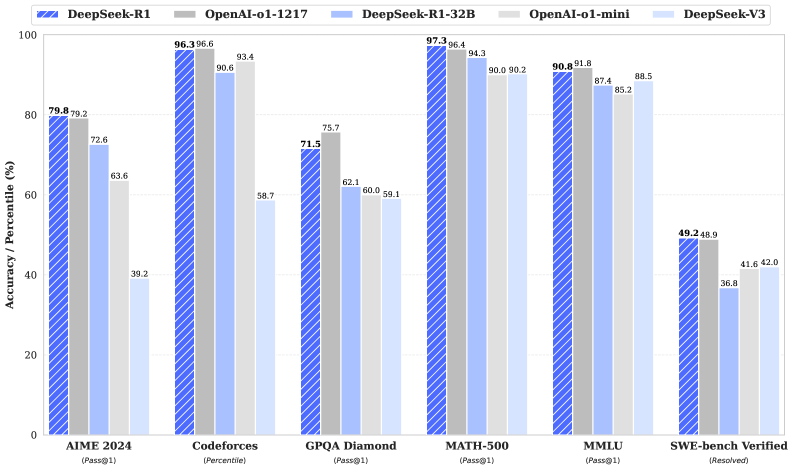
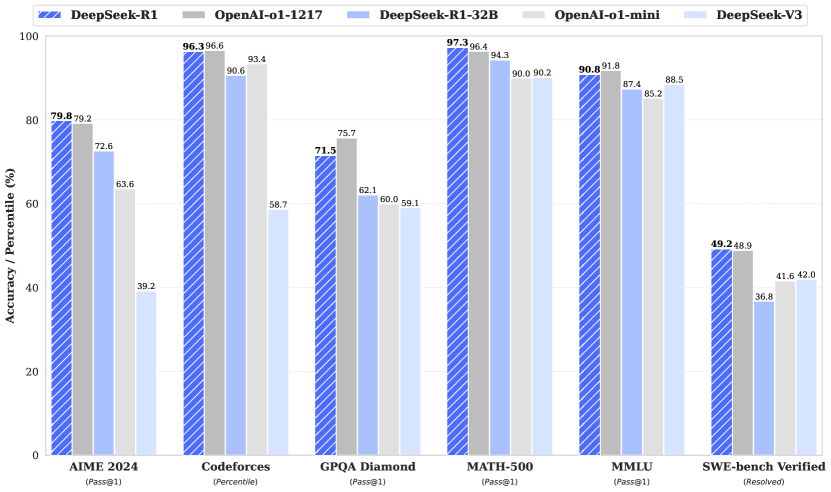
feat: DeepSeek-R1 (DeepSeek-AI, 2025) 深度解读 - 纯 RL 涌现推理

diff --git a/_posts/2026-04-24-DeepSeek-R1-RL推理模型深度解读.md b/_posts/2026-04-24-DeepSeek-R1-RL推理模型深度解读.md
@@ -1,0 +1,199 @@
+---
+title: "DeepSeek-R1 — 用纯 RL 让模型自发涌现长思维链,开源复现 o1"
+date: 2026-04-24 17:30:00 +0800
+categories: [Agent, Reasoning, Reinforcement Learning]
+tags: [deepseek-r1, grpo, reasoning-model, rl, deepseek-2025]
+math: true
+---
+
+## 基本信息
+
+- **作者**: DeepSeek-AI 团队
+- **机构**: DeepSeek
+- **发表**: arXiv 2025-01
+- **arXiv**: [2501.12948](https://arxiv.org/abs/2501.12948)
+
+## 一句话总结
+
+**DeepSeek-R1** 是 2025 年 1 月震动整个 AI 行业的论文——首个**在开源模型上完整复现 OpenAI o1** 的工作,并给出所有技术细节。核心贡献三点:(1) **R1-Zero**:在 DeepSeek-V3-Base 上**纯用 GRPO RL(完全不做 SFT)训练**,模型自发涌现长思维链、自我反思、验证、回溯等行为;(2) **R1**:在 R1-Zero 基础上做 cold-start SFT + 多阶段 RL,进一步提升可读性;(3) **Distillation**:把 R1 的推理能力蒸馏到 1.5B-70B 的开源小模型,让 Qwen-7B 这种小模型在 AIME 上超过 GPT-4o。R1 发布后一周内引发全球复现浪潮,让"推理模型"从 OpenAI 专属变为开源社区公用技术。
+
+![DeepSeek-R1 的训练 pipeline:R1-Zero 走纯 RL 路线,展示涌现能力;R1 多阶段训练(cold-start SFT → RL for reasoning → SFT on rejection sampling → RL for all scenarios),产出面向用户的最终模型。](/assets/img/deepseek-r1/x1.png)
+_Figure 1:R1 的完整训练 pipeline_
+
+---
+
+## 背景:o1 的谜与开源复现之难
+
+### 2024 年 9 月:o1 震动业界
+
+OpenAI 发布 **o1**:在推理任务(AIME、Codeforces、PhD-level science)上大幅超越 GPT-4o。特点:
+
+- 回答前先写一大段内部思考
+- 测试时越"想"越久越准(**inference-time scaling**)
+- 自发展现反思("wait, let me reconsider")、验证、回溯
+
+但 OpenAI 几乎没公开任何训练细节——只提到"用了 RL"。业界疯狂猜测:
+
+- 是 MCTS + PRM 吗?
+- 还是 RLHF 变体?
+- 数据怎么造的?
+
+### 2024 年 9-12 月:复现尝试皆不理想
+
+- 社区尝试 Self-Taught Reasoner (STaR) 路线 —— 效果差
+- PRM + MCTS —— 复杂且不稳
+- 各种 distillation —— 能力浅层,缺涌现
+
+直到 R1 发布,业界才看到一个**work 的 recipe**。
+
+---
+
+## 核心机制一:R1-Zero 的纯 RL 范式
+
+### 算法:GRPO + rule-based reward
+
+DeepSeek 的做法惊人地简单:
+
+- **Base model**:DeepSeek-V3-Base(671B MoE,未经任何 SFT)
+- **RL 算法**:GRPO(见 [GRPO 深度解读]({% post_url 2026-04-24-DeepSeekMath-GRPO-深度解读 %}))
+- **Reward**:规则化两部分
+  - **Accuracy reward**:数学答案对 → +1,代码 AC → +1
+  - **Format reward**:回答放在 `<think>...</think>` 和 `<answer>...</answer>` 里 → +0.1
+- **Prompt**:简单模板,让模型先 think 再 answer
+
+**完全不做 SFT**,直接开 RL。
+
+### 惊人发现:涌现行为
+
+![R1-Zero 在 AIME 2024 上的准确率随训练 step 平稳上升,从 ~15% 提到 ~70%,中间没有明显平台期。伴随准确率上升,每个 response 的长度也从 ~500 tokens 增加到 ~10000 tokens——模型自发学会了"想得更久"。](/assets/img/deepseek-r1/x2.png)
+_Figure 2:R1-Zero 训练期间的 AIME 准确率与响应长度_
+
+训练过程中,**模型自发出现以下行为**(没有任何人示范):
+
+1. **响应变长**:从 500 tokens 逐渐增加到 10000+ tokens
+2. **自我反思**:出现 "Wait, let me reconsider..."、"Hmm, that doesn't seem right"
+3. **回溯**:会自己否定之前的思路、重开
+4. **验证**:"Let me check this calculation..."
+5. **多解法尝试**:对同一题尝试多种解法,交叉验证
+
+![R1-Zero 的响应长度随训练 step 持续增加,从 500 tokens 长到 10000+ tokens。这是"test-time compute 自然扩张"的有力证据——模型自发学会"想得越久越准"。](/assets/img/deepseek-r1/x3.png)
+_Figure 3:响应长度的"aha moment"涌现_
+
+### "Aha Moment"
+
+论文里最传奇的描述:训练中某个 step 突然观察到模型说出 **"Wait, wait. Wait. That's an aha moment I can flag here."**——仿佛它在解题中真的"意识到"了什么。
+
+这是一个关键 insight:**涌现不仅是能力级的涌现,也是"元认知行为"的涌现**。模型没有被教过"反思",但在 RL 优化下自发学会了这种行为,因为它是提高 accuracy reward 的有效策略。
+
+---
+
+## 核心机制二:R1 的多阶段训练
+
+R1-Zero 能力强但**可读性差**——响应混合中英文、格式混乱、有时难读。R1 是为用户可用而做的精修版本:
+
+### 4 阶段训练
+
+1. **Cold-start SFT**:收集几千条**高质量长 CoT 示例**(部分来自 R1-Zero 的输出,过滤后人工改写)SFT 一下 base model。让模型学一个"体面的"推理格式起点
+2. **Reasoning-focused RL**:类似 R1-Zero 的纯 RL,但加入**语言一致性 reward**(鼓励单一语言)
+3. **Rejection Sampling + SFT**:用阶段 2 的模型生成 800K 推理 + 200K 通用数据,只保留正确的做 SFT
+4. **All-scenarios RL**:用 reward model 对所有场景(包括闲聊、写作)做 RL,补齐通用能力
+
+### 性能
+
+| Benchmark | DeepSeek-V3 | **R1** | OpenAI o1 |
+|-----------|------------|--------|-----------|
+| AIME 2024 | 39.2 | **79.8** | 79.2 |
+| MATH-500 | 90.2 | **97.3** | 96.4 |
+| GPQA Diamond | 59.1 | **71.5** | 75.7 |
+| Codeforces rating | 1134 | **2029** | 2061 |
+| SWE-bench Verified | 42.0 | **49.2** | 48.9 |
+
+**R1 在数学、代码、推理上全面持平或略超 o1**。
+
+---
+
+## 核心机制三:蒸馏小模型
+
+DeepSeek 把 R1 的推理能力**蒸馏到多种开源小模型**:
+
+| Student | AIME 2024 | MATH-500 |
+|---------|-----------|----------|
+| Qwen 1.5B | 28.9 | 83.9 |
+| Qwen 7B | 55.5 | 92.8 |
+| Qwen 14B | **69.7** | **93.9** |
+| Qwen 32B | **72.6** | **94.3** |
+| Llama 70B | **70.0** | **94.5** |
+
+**14B / 32B 级别小模型在 AIME 上超过 GPT-4o**——这是蒸馏效率的震惊展示。
+
+蒸馏过程很直接:让 R1 生成大量推理数据,用这些数据 SFT 小模型。
+
+---
+
+## 工程影响
+
+### 1. "纯 RL 涌现推理"范式确立
+
+R1-Zero 证明:**不需要复杂 MCTS / PRM / MCTS rollout,不需要 SFT 启动,GRPO 纯 RL 就能涌现长 CoT 和反思**。这个结论对 reasoning model 研究范式影响巨大——简化了所有后续复现工作。
+
+### 2. 开源赶上闭源的关键一步
+
+2024 年 o1 让 OpenAI 领先开源 1 个 milestone。R1 一举把差距抹平(甚至在部分任务上领先)。这是开源 LLM 历史上最重要的事件之一。
+
+### 3. 2025 年全球复现浪潮
+
+R1 发布后几周内,复现工作爆炸:
+- **Open-R1**(HuggingFace)
+- **R1-V**(视觉版)
+- **Open-Reasoner-Zero**
+- **Simple-RL-Reasoning**
+- 各家大模型公司(Qwen、Kimi、GLM、MiniMax)都发布 R1 风格的推理版本
+
+### 4. 对可验证奖励的重视
+
+R1 的成功依赖**可验证 reward**——数学答案、代码 AC。这让业界普遍意识到:**所谓"agentic RL"的核心是找到可验证的 reward signal**。SWE-Gym、Search-R1、ReTool 等工作都沿此思路。
+
+### 5. Inference-time scaling 成为新 scaling 律
+
+R1(继承 o1)证明:**test-time compute 有明显的 scaling curve**——越长越准。这让 scaling law 增加一个新维度:inference compute。对未来模型架构设计有深远影响。
+
+---
+
+## 局限
+
+### 1. 只对可验证任务工作好
+
+R1 最擅长数学、代码、逻辑——这些有明确 reward 的领域。对创意写作、开放对话等主观任务提升有限。
+
+### 2. 响应长度 = 成本
+
+R1 回答长度显著大于 V3(4-10×)。**推理成本相应上升**——对预算敏感场景不一定划算。
+
+### 3. R1-Zero 可读性差
+
+纯 RL 训练出的模型逻辑混乱、格式怪异、中英混杂——只能作为 R1 的前身,不能直接用户使用。
+
+### 4. 对 base model 要求高
+
+R1-Zero 在 V3-Base(671B)上 work;在 < 10B base 上直接纯 RL 几乎没效果。这暗示"涌现需要底座足够强"——这与 CoT 的涌现规律一脉相承。
+
+---
+
+## 读完这篇你真正该带走的 4 件事
+
+<callout emoji="white_check_mark" background-color="light-green" border-color="green">
+1. **涌现不仅是能力的涌现,也是"元认知行为"的涌现**:反思、验证、回溯、多解法尝试——这些曾以为需要专门设计的能力,在 RL 优化下自发出现。这是对 RL 威力的重要证据
+2. **简单 reward + 强 base + 好 RL 算法 = 奇迹**:R1-Zero 的 reward 函数只有 "答案对错 + 格式",却涌现出 o1 级别的推理。"让信号干净、让 base 强大"比"设计复杂 reward"更重要
+3. **蒸馏是民主化推理能力的关键**:R1 14B 蒸馏模型能打 GPT-4o——说明推理能力可以低成本下沉到小模型。这对应用层是决定性利好
+4. **Inference-time scaling 是新的 scaling 律**:过去 scale 参数、scale 数据,现在多了一个 scale test-time compute。这会深刻影响未来模型架构(更长 context、更高效 decode、更好的 tool use)
+</callout>
+
+---
+
+## 延伸阅读
+
+- [DeepSeekMath & GRPO 深度解读]({% post_url 2026-04-24-DeepSeekMath-GRPO-深度解读 %}) —— R1 的算法基础
+- [DeepSeek-V3 FP8 训练深度解读]({% post_url 2026-04-24-DeepSeek-V3-FP8训练深度解读 %}) —— R1 的 base model
+- [Chain-of-Thought 深度解读]({% post_url 2026-04-24-Chain-of-Thought-深度解读 %}) —— 推理的起点
+- [Tree of Thoughts 深度解读]({% post_url 2026-04-24-Tree-of-Thoughts-思维树深度解读 %}) —— R1 内化的能力
+- [OpenAI o1 官方博客](https://openai.com/index/learning-to-reason-with-llms/) —— R1 对标的闭源前驱
